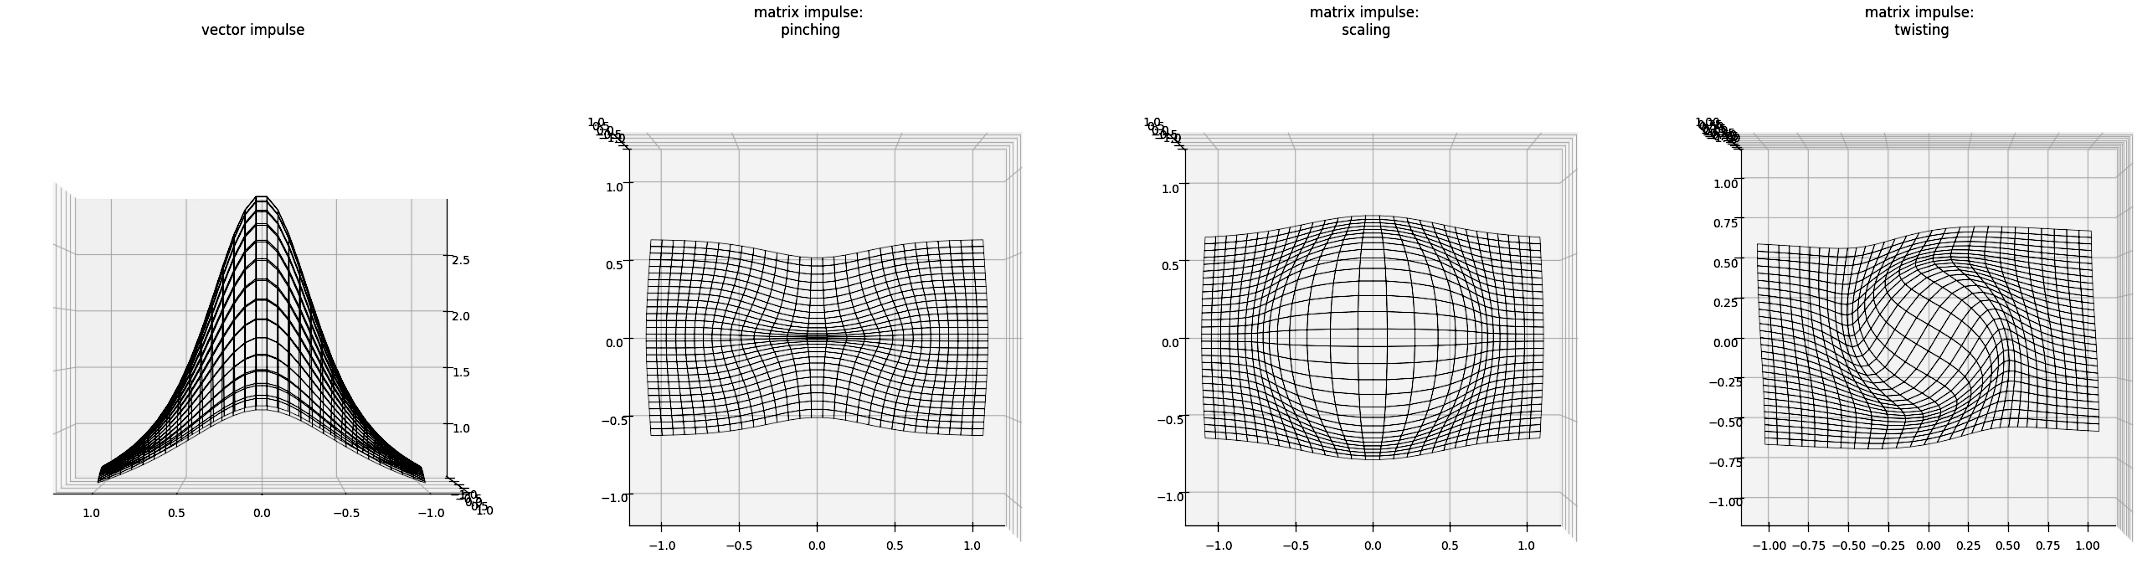
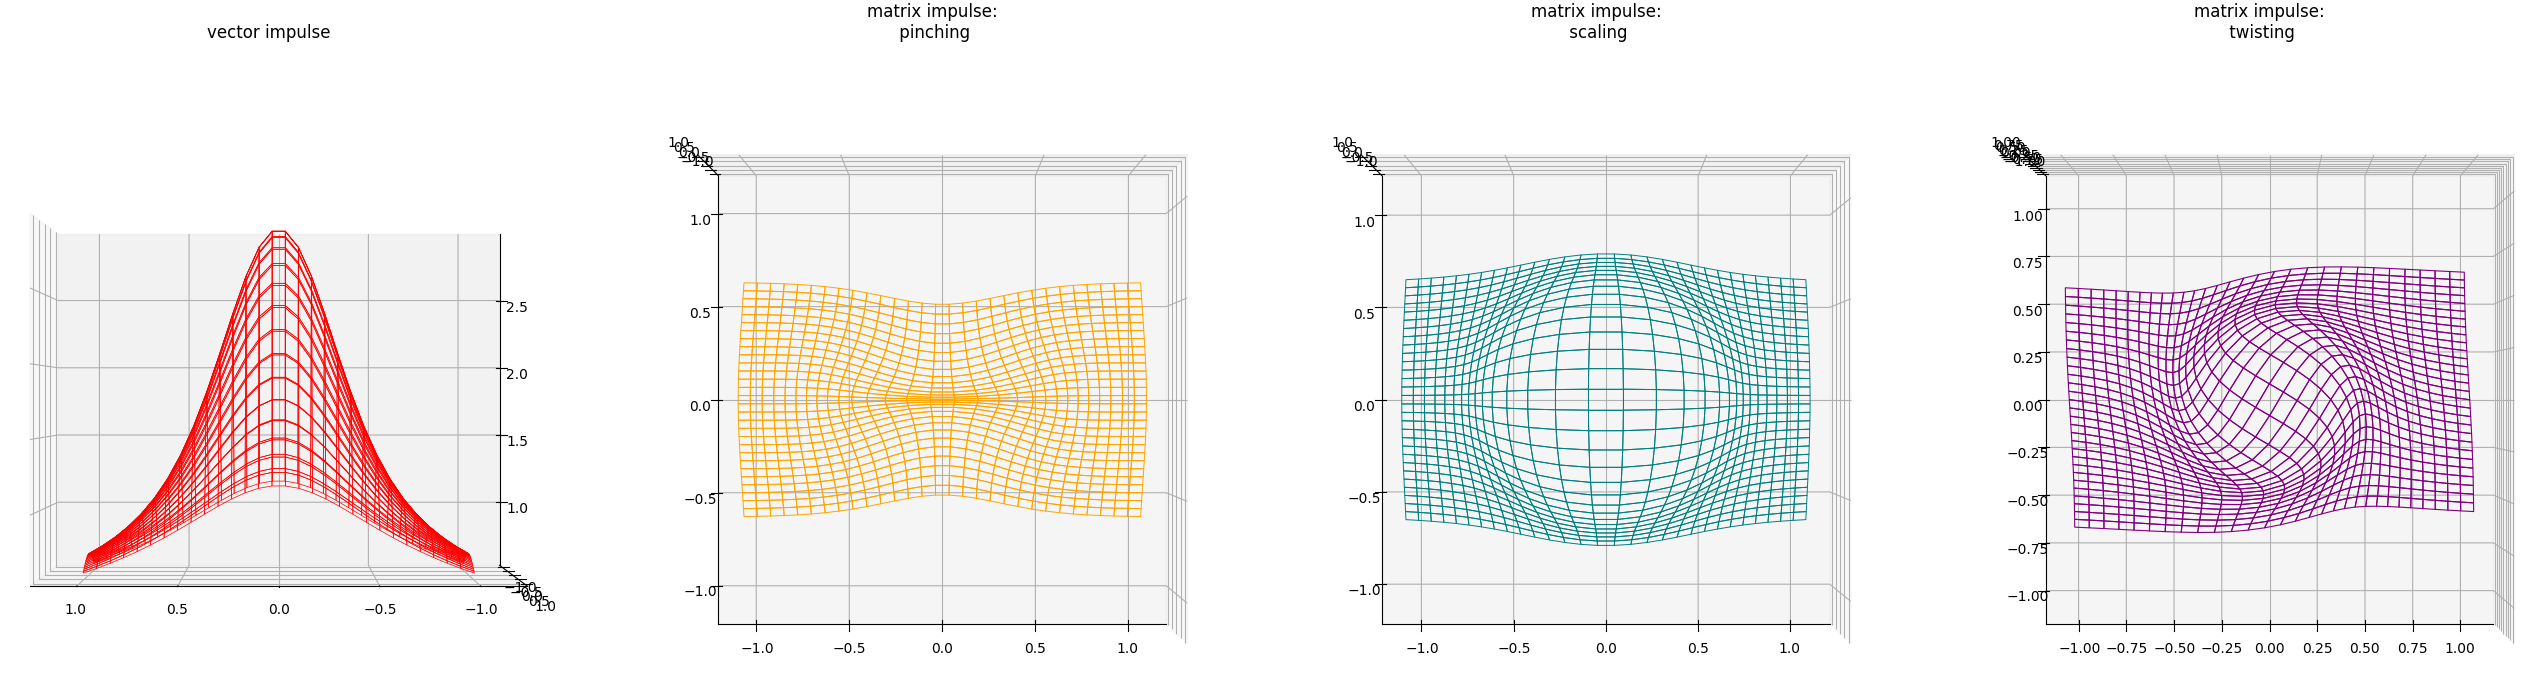
img

diff --git a/example.py b/example.py
@@ -134,7 +134,7 @@ if __name__ == "__main__":
         (points[:, 1] + disp_v[:, 1]).reshape(X.shape),
         (points[:, 2] + disp_v[:, 2]).reshape(X.shape),        
         color='teal',
-        edgecolor='black',
+        edgecolor='red',
         linewidth=0.5,
         alpha=0.0
     )
@@ -148,8 +148,8 @@ if __name__ == "__main__":
         (points[:, 1] + disp_m[:, 1]).reshape(X.shape),
         (points[:, 2] + disp_m[:, 2]).reshape(X.shape),
         color='violet',
-        edgecolor='black',
-        linewidth=0.5,
+        edgecolor='orange',
+        linewidth=0.7,
         alpha=0.0
     )
     ax1.set_title('matrix impulse:\n pinching')
@@ -162,8 +162,8 @@ if __name__ == "__main__":
         (points[:, 1] + disp_s[:, 1]).reshape(X.shape),
         (points[:, 2] + disp_s[:, 2]).reshape(X.shape),
         color='violet',
-        edgecolor='black',
-        linewidth=0.5,
+        edgecolor='teal',
+        linewidth=0.7,
         alpha=0.0
     )
     ax2.set_title('matrix impulse:\n scaling')
@@ -176,8 +176,8 @@ if __name__ == "__main__":
         (points[:, 1] + disp_t[:, 1]).reshape(X.shape),
         (points[:, 2] + disp_t[:, 2]).reshape(X.shape),
         color='violet',
-        edgecolor='black',
-        linewidth=0.5,
+        edgecolor='purple',
+        linewidth=0.8,
         alpha=0.0
     )
     ax3.set_title('matrix impulse:\n twisting')
